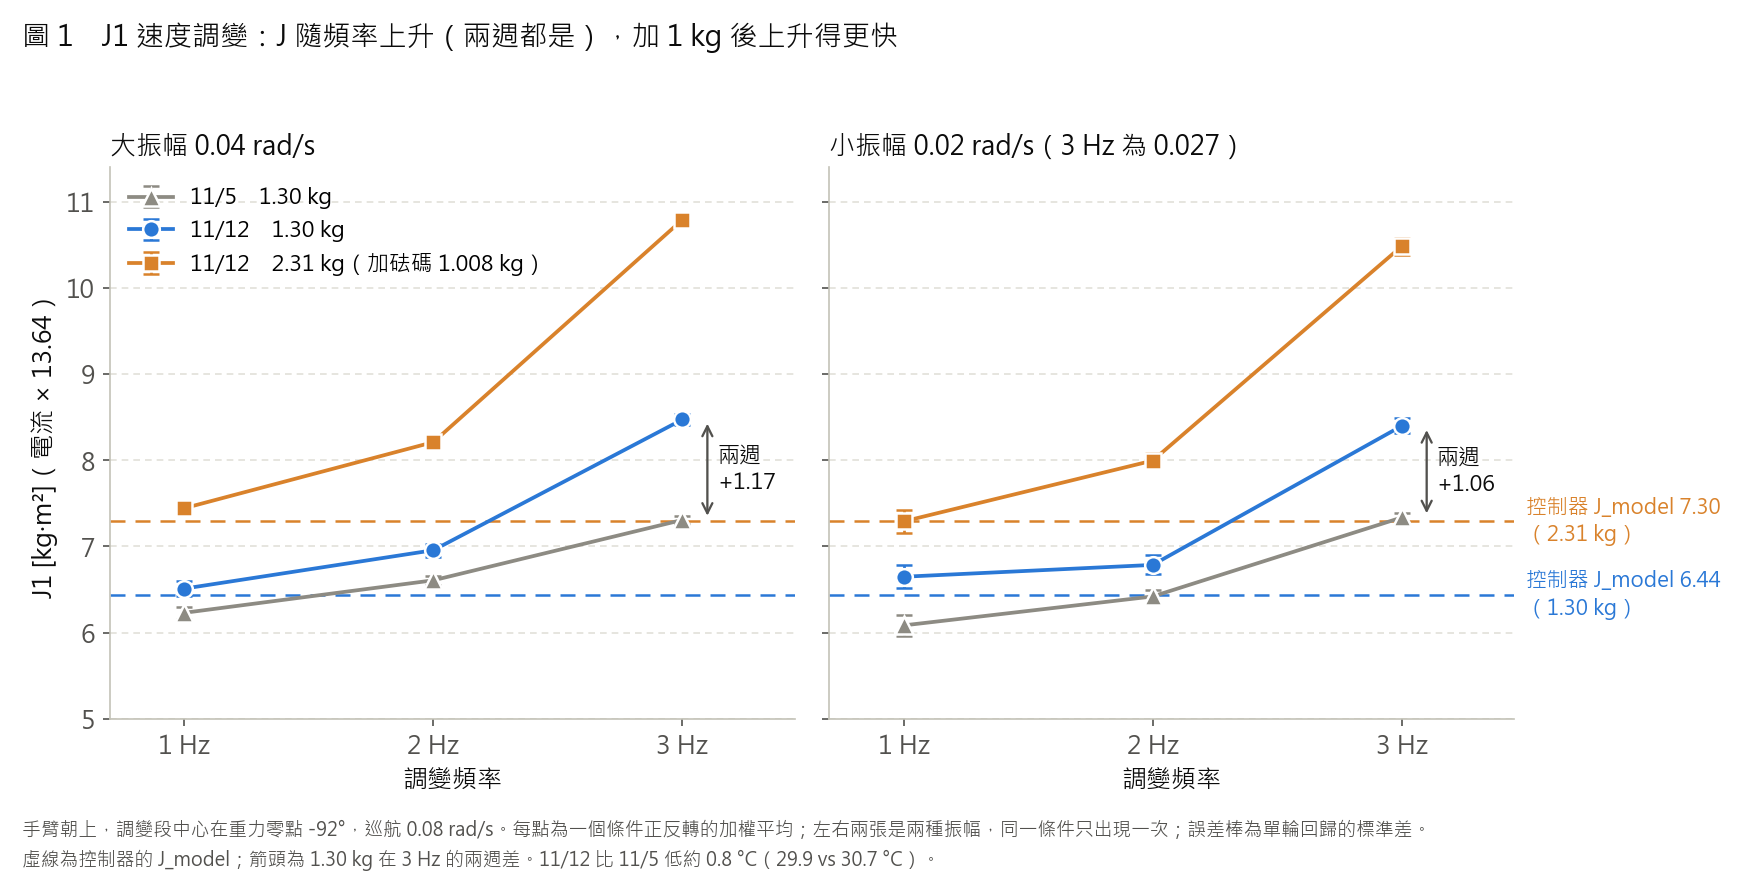
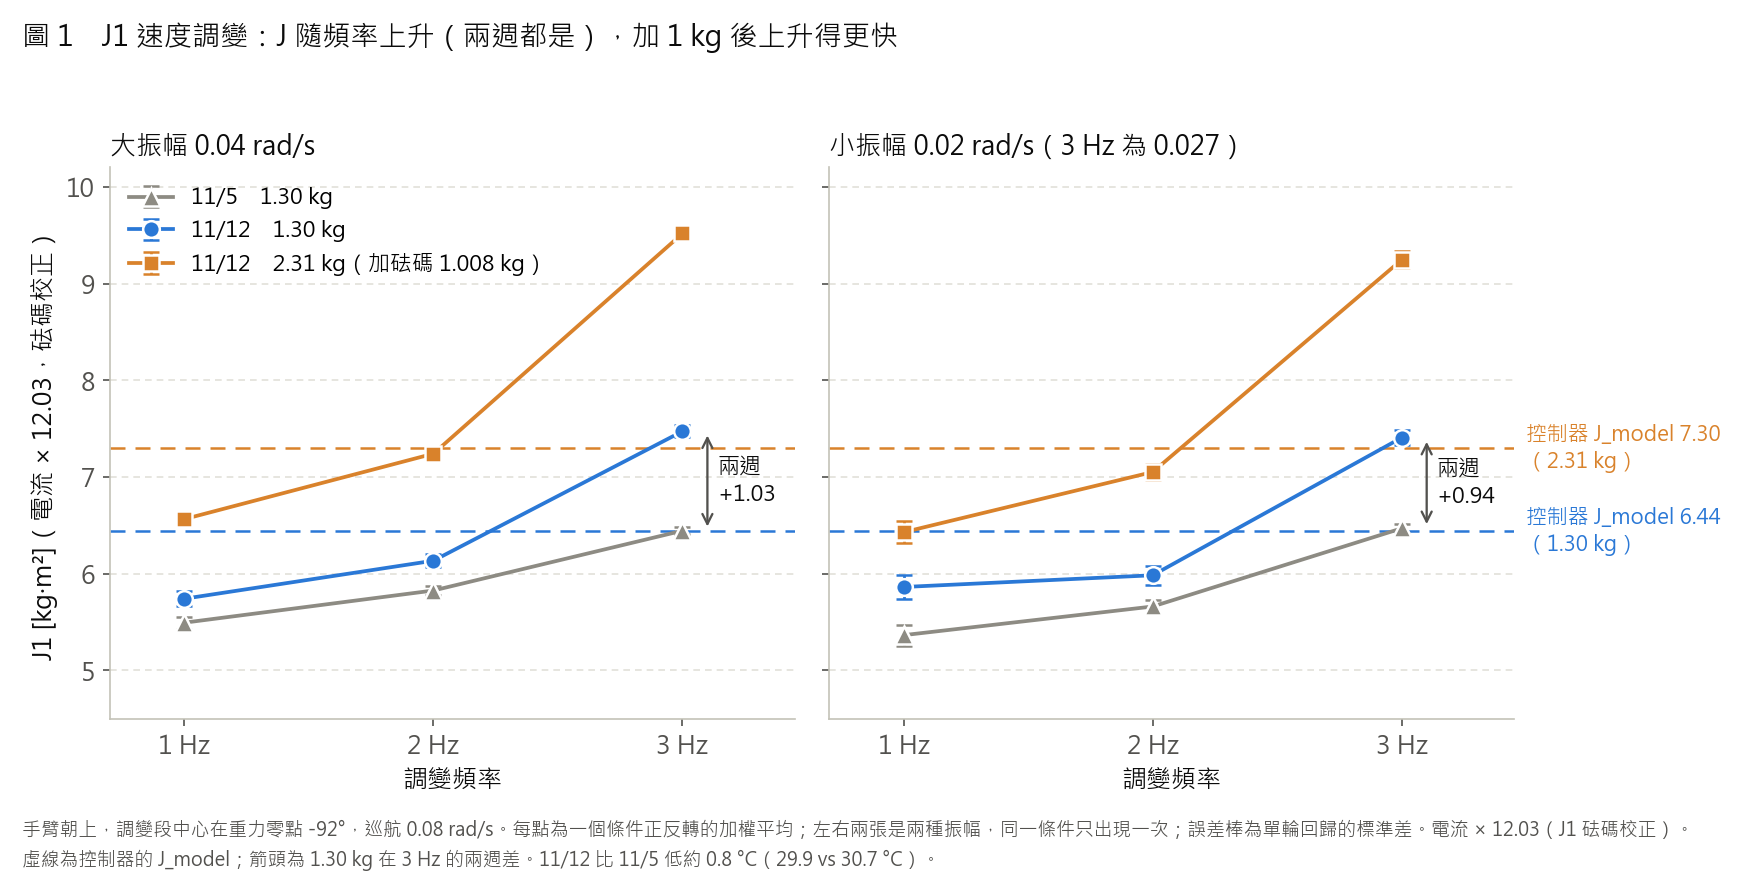
11/18 報告圖改用各軸砝碼校正的換算比例（J1 12.03、J2 12.10）
- 圖 1、2、5 的 J、ΔJ、B、Tc 由 × 13.64 換成各軸校正值（乘 0.882、0.887），控制器 J_model 不變
- 圖 3 加上 CB 系列文件值 12.63（Kovincic 2019）；數值標進長條內避開虛線
- 圖 5 的「官方連桿 + 末端工具 1.01」標籤改用箭頭，不再壓到長條
- REPORT_1118.md 註明 Notion 版已改用校正值

diff --git a/analysis/1112/report_figs_1118.py b/analysis/1112/report_figs_1118.py
@@ -24,13 +24,22 @@ FIGS = os.path.join(OUT, "figs"); os.makedirs(FIGS, exist_ok=True)
 DOCS = os.path.join(HERE, "..", "..", "docs", "report_1118"); os.makedirs(DOCS, exist_ok=True)
 INK, INK2, MUTED, GRAY = "#0b0b0b", "#52514e", "#8d8b83", "#b9b8b0"
 ORANGE, BLUE, GREEN = "#d9822b", "#2a78d6", "#3a9a5b"
-KT = 13.64                                             # 文獻值換算比例 101 × 0.135（J0 已用砝碼校正為 10.8；J1、J2 暫時沿用）
+KT = 13.64                                             # 文獻值 101 × 0.135（Raviola 2021，無出處）；analysis_1112/*.json 都用它換算
+KT_CB = 12.63                                          # 文獻值 101 × 0.125（Kovincic 2019、Porcelli 2020：CB 系列文件值）
 M_CUP, G = 1.008, 9.81
 
 J1 = json.load(open(os.path.join(OUT, "j1_1112.json"), encoding="utf-8"))
 J1B = json.load(open(os.path.join(OUT, "j1_1112_b.json"), encoding="utf-8"))
 J2 = json.load(open(os.path.join(OUT, "j2_1112.json"), encoding="utf-8"))
 J2C = json.load(open(os.path.join(OUT, "j2_cup_1112.json"), encoding="utf-8"))
+
+# 11/18 起改用各軸砝碼校正的換算比例：J、ΔJ、B、Tc 都和換算比例成正比，JSON（× 13.64）的值乘 K / 13.64。
+# 控制器的 J_model、ΔJ_model 是控制器自己的單位（N·m），不換算。
+mgh1 = M_CUP * G * J1B["h"]                            # 砝碼離 J1 軸的高度 h（重心由控制器 ΔJ_model 反推，d ≈ 56 mm）
+dS1 = float(np.mean(J1B["dS"]))
+K1 = KT * mgh1 / abs(dS1)                              # J1 砝碼重力斜率（與 KT 無關：dS1 也是 × KT 算的）
+K2 = float(J2C["Kcal"])                                # J2 砝碼重力斜率
+S1, S2 = K1 / KT, K2 / KT
 
 
 def style(ax):
@@ -50,7 +59,8 @@ def cond_mean(run, ci):
     """同一條件兩個方向的加權平均 J。"""
     v = [J1[f"velmod_{run}_{t}"]["per"][str(ci)] for t in ("pos", "neg")]
     w = np.array([1 / x["se"] ** 2 for x in v])
-    return float(sum(x["J"] * wi for x, wi in zip(v, w)) / w.sum()), float(1 / math.sqrt(w.sum())), v[0]["f"], v[0]["A"]
+    J, se = float(sum(x["J"] * wi for x, wi in zip(v, w)) / w.sum()), float(1 / math.sqrt(w.sum()))
+    return S1 * J, S1 * se, v[0]["f"], v[0]["A"]
 
 
 # ---------------- 圖 1：J1 速度調變，J 對頻率（兩種振幅各畫一張，含誤差棒） ----------------
@@ -80,9 +90,9 @@ for ax, (big, ttl) in zip(axs, AMP1):
             linespacing=1.3, zorder=6)
     ax.set_title(ttl, loc="left", fontsize=12.5, color=INK)
     ax.set_xticks([1, 2, 3]); ax.set_xticklabels(["1 Hz", "2 Hz", "3 Hz"])
-    ax.set_xlim(0.7, 3.45); ax.set_ylim(5.0, 11.4); ax.set_xlabel("調變頻率")
+    ax.set_xlim(0.7, 3.45); ax.set_ylim(4.5, 10.2); ax.set_xlabel("調變頻率")
     style(ax)
-axs[0].set_ylabel("J1 [kg·m²]（電流 × 13.64）")
+axs[0].set_ylabel(f"J1 [kg·m²]（電流 × {K1:.2f}，砝碼校正）")
 axs[0].legend(loc="upper left", frameon=False, fontsize=10.5)
 for jm, col, txt in ((jm130, BLUE, "1.30 kg"), (jm231, ORANGE, "2.31 kg")):
     axs[1].text(3.5, jm, f"控制器 J_model {jm:.2f}\n（{txt}）", ha="left", va="center", fontsize=10, color=col,
@@ -90,7 +100,7 @@ for jm, col, txt in ((jm130, BLUE, "1.30 kg"), (jm231, ORANGE, "2.31 kg")):
 fig.suptitle("圖 1　J1 速度調變：J 隨頻率上升（兩週都是），加 1 kg 後上升得更快", x=0.01, ha="left", fontsize=13.5,
              color=INK)
 fig.text(0.01, 0.005, "手臂朝上，調變段中心在重力零點 -92°，巡航 0.08 rad/s。每點為一個條件正反轉的加權平均；"
-         "左右兩張是兩種振幅，同一條件只出現一次；誤差棒為單輪回歸的標準差。\n"
+         f"左右兩張是兩種振幅，同一條件只出現一次；誤差棒為單輪回歸的標準差。電流 × {K1:.2f}（J1 砝碼校正）。\n"
          "虛線為控制器的 J_model；箭頭為 1.30 kg 在 3 Hz 的兩週差。11/12 比 11/5 低約 0.8 °C（29.9 vs 30.7 °C）。", ha="left", va="bottom", fontsize=9,
          color=INK2, linespacing=1.5)
 fig.tight_layout(rect=(0, 0.06, 0.93, 0.95))
@@ -98,21 +108,22 @@ f1 = save(fig, "w1118_fig1_j1_velmod_freq.png")
 
 # ---------------- 圖 2：砝碼的 ΔJ 對頻率（列：J1、J2；欄：大、小振幅） ----------------
 # J1 單一彈簧模型（j1_1112_fit.py 的「整個慣量在彈簧後」）：J_meas = s·J/(1 − J·ω²/k)，砝碼加在 J 上
-S_FIT, J_FIT, K_FIT, DJ_FIT = 1.095, 5.5467, 6897.9, 0.905
+S_FIT, J_FIT, K_FIT, DJ_FIT = 1.095, 5.5467, 6897.9, 0.905   # j1_1112_fit.py（× 13.64）的擬合值
+S_FIT1 = S_FIT * S1                                    # 換成 J1 砝碼校正值後的 s
 def dj_spring(f):
     w2 = (2 * math.pi * f) ** 2
-    app = lambda J: S_FIT * J / (1 - J * w2 / K_FIT)
+    app = lambda J: S_FIT1 * J / (1 - J * w2 / K_FIT)
     return app(J_FIT + DJ_FIT) - app(J_FIT)
 
 dj1 = J1B["dJ"]; jmd1 = J1B["Jm_d"]
 j1 = {True: [], False: []}
 for lab, (m, s, jm) in dj1.items():
     f = float(lab.split()[0]); A = float(lab.split("×")[1])
-    j1[A >= 0.04].append((f, m, s))
+    j1[A >= 0.04].append((f, S1 * m, S1 * s))
 j2 = {True: [], False: []}
 for r in J2C["rows"]:
     w = [1 / s ** 2 for s in r["sdJ"]]
-    j2[r["A"] >= 0.05].append((r["f"], sum(d * wi for d, wi in zip(r["dJ"], w)) / sum(w), 1 / math.sqrt(sum(w))))
+    j2[r["A"] >= 0.05].append((r["f"], S2 * sum(d * wi for d, wi in zip(r["dJ"], w)) / sum(w), S2 / math.sqrt(sum(w))))
 jmd2 = float(np.mean([r["dJm"] for r in J2C["rows"]]))
 fig, axs = plt.subplots(2, 2, figsize=(12.5, 8.8), sharex=True)
 rows = (("J1（肩）", j1, BLUE, jmd1, (0, 2.8), {True: "大振幅 0.04 rad/s", False: "小振幅 0.02 rad/s（3 Hz 為 0.027）"}),
@@ -151,16 +162,13 @@ for i, (jn, dd, col, jmd, yl, ttl) in enumerate(rows):
 fig.suptitle("圖 2　同一個 1 kg 砝碼：頻率越高，量到的 ΔJ 越大（J1 只有 1 Hz 接近控制器的值）", x=0.01, ha="left",
              fontsize=13.5, color=INK)
 fig.text(0.01, 0.005, "ΔJ = J(2.31 kg) - J(1.30 kg)，手臂朝上，同一天、同一方向相減後兩個方向加權平均。左右兩欄是兩種振幅，"
-         "誤差棒為標準差。電流 × 13.64。\n控制器 ΔJ_model：target_moment 對 target_qdd 回歸，2.31 kg 減 1.30 kg。"
-         "J1 的模型：J_量 = s·J / (1 - J·ω²/k)，12 個條件擬合（s = 1.095、J = 5.55、k = 6898 N·m/rad；χ² = 42，自由度 9）。",
+         f"誤差棒為標準差。電流 × 砝碼校正值（J1 {K1:.2f}、J2 {K2:.2f}）。\n控制器 ΔJ_model：target_moment 對 target_qdd 回歸，2.31 kg 減 1.30 kg。"
+         f"J1 的模型：J_量 = s·J / (1 - J·ω²/k)，12 個條件擬合（s = {S_FIT1:.3f}、J = 5.55、k = 6898 N·m/rad；χ² = 42，自由度 9）。",
          ha="left", va="bottom", fontsize=9, color=INK2, linespacing=1.5)
 fig.tight_layout(rect=(0, 0.05, 1, 0.96))
 f2 = save(fig, "w1118_fig2_cup_dJ.png")
 
 # ---------------- 圖 3：換算比例的各種估計 ----------------
-mgh1 = M_CUP * G * J1B["h"]                            # 砝碼離 J1 軸的高度 h（重心由控制器 ΔJ_model 反推，d ≈ 56 mm）
-dS1 = float(np.mean(J1B["dS"]))
-K1 = KT * mgh1 / abs(dS1)
 c1d = J1["constvel_diag"]; c2 = J2["constvel"]
 est = [  # (標籤, 值, 顏色, 說明)
     ("J1 砝碼重力斜率", K1, BLUE, f"m·g·h {mgh1:.2f} ÷ 量測 Δ斜率 {abs(dS1):.2f}"),
@@ -174,20 +182,27 @@ fig, ax = plt.subplots(figsize=(10, 5.4))
 y = np.arange(len(est))[::-1]
 for yi, (lab, v, col, note) in zip(y, est):
     ax.barh(yi, v, 0.6, color=col, edgecolor="white", zorder=3)
-    ax.text(v + 0.08, yi, f"{v:.2f}", va="center", ha="left", fontsize=11.5, color=INK, fontweight="bold")
+    ax.text(v - 0.12, yi, f"{v:.2f}", va="center", ha="right", fontsize=11.5, color="white", fontweight="bold",
+            zorder=4)                                   # 數值放在長條內，避開兩條文獻值虛線
     ax.text(0.15, yi, note, va="center", ha="left", fontsize=9.5, color="white", zorder=4)
 ax.axvline(KT, color=INK, lw=1.8, ls=(0, (6, 4)), zorder=5)
-ax.text(KT - 0.08, y[0] + 0.5, f"文獻值 {KT}", ha="right", va="bottom", fontsize=11, color=INK)
+ax.text(KT + 0.08, y[0] + 0.5, f"文獻值 {KT}\n（Raviola 2021）", ha="left", va="bottom", fontsize=10, color=INK,
+        linespacing=1.2)
+ax.axvline(KT_CB, color=INK2, lw=1.4, ls=(0, (2, 2)), zorder=5)
+ax.text(KT_CB - 0.08, y[0] + 0.5, f"文獻值 {KT_CB}\n（Kovincic 2019）", ha="right", va="bottom", fontsize=10,
+        color=INK2, linespacing=1.2)
 ax.set_yticks(y); ax.set_yticklabels([e[0] for e in est], fontsize=11)
-ax.set_xlim(0, 15.2); ax.set_ylim(-0.6, len(est) - 0.2)
+ax.set_xlim(0, 16.2); ax.set_ylim(-0.6, len(est) + 0.5)
 ax.set_xlabel("換算比例（力矩 ÷ 電流）[N·m/A]")
 for s in ("top", "right"):
     ax.spines[s].set_visible(False)
 ax.grid(axis="x", alpha=1, ls=(0, (4, 3))); ax.set_axisbelow(True)
-ax.set_title("圖 3　換算比例：用砝碼的重力斜率量到 12.0～12.1，比文獻值 13.64 低約 11%", loc="left",
+ax.set_title("圖 3　換算比例：用砝碼的重力斜率量到 12.0～12.1，比文獻值 13.64 低約 11%、比 12.63 低約 4%", loc="left",
              fontsize=13.5, pad=12, color=INK)
 fig.text(0.01, 0.005, "彩色：只用已知質量（砝碼 1.008 kg）與幾何，不需要控制器的模型；灰色：要假設控制器的重力模型正確。"
-         "\n控制器自己的重力斜率與 m·g·h 相比：J1 1.00、J2 1.03（控制器知道砝碼重量）。", ha="left", va="bottom",
+         "本報告其他圖改用砝碼校正值（J1 %.2f、J2 %.2f）。"
+         "\n控制器自己的重力斜率與 m·g·h 相比：J1 1.00、J2 1.03（控制器知道砝碼重量）。"
+         "兩個文獻值：13.64 = 101 × 0.135 沒寫出處；12.63 = 101 × 0.125 標註來自手臂文件。" % (K1, K2), ha="left", va="bottom",
          fontsize=9, color=INK2, linespacing=1.5)
 fig.tight_layout(rect=(0, 0.06, 1, 1))
 f3 = save(fig, "w1118_fig3_conversion_ratio.png")
@@ -216,12 +231,13 @@ for d, col, sgn, lab, kw in (("pos", BLUE, +1, "正轉", dict(marker="o", s=55, 
                               dict(marker="s", s=150, facecolors="none", edgecolors=ORANGE, linewidths=2, zorder=4))):
     a = np.array(seg[d]); assert len(a) == 12, (d, len(a))
     v = np.round(a[:, 0], 2); vs = np.unique(v)
-    ax.scatter(vs, [a[v == x, 1].mean() - sgn * c2["H"] for x in vs], label=lab, **kw)
-ax.plot(vv, c2["Tc"] + c2["B"] * vv, color=INK2, lw=1.4, zorder=3, label="摩擦 Tc + B·v")
-ax.text(0.205, 7.6, f"B = {c2['B']:.1f} ± {c2['sd_B']:.1f} N·m·s/rad\nTc = {c2['Tc']:.2f} ± {c2['sd_Tc']:.2f} N·m\n"
-        f"已扣窗口內重力平均 {c2['H']:+.2f} N·m", ha="right", va="bottom", fontsize=11, color=INK, linespacing=1.5)
+    ax.scatter(vs, [S2 * (a[v == x, 1].mean() - sgn * c2["H"]) for x in vs], label=lab, **kw)
+B2, sB2, Tc2, sTc2, H2 = (S2 * c2[k] for k in ("B", "sd_B", "Tc", "sd_Tc", "H"))
+ax.plot(vv, Tc2 + B2 * vv, color=INK2, lw=1.4, zorder=3, label="摩擦 Tc + B·v")
+ax.text(0.205, 6.6, f"B = {B2:.1f} ± {sB2:.1f} N·m·s/rad\nTc = {Tc2:.2f} ± {sTc2:.2f} N·m\n"
+        f"已扣窗口內重力平均 {H2:+.2f} N·m", ha="right", va="bottom", fontsize=11, color=INK, linespacing=1.5)
 ax.legend(loc="upper left", frameon=False, fontsize=10.5)
-ax.set_xlim(0, 0.215); ax.set_ylim(7, 16)
+ax.set_xlim(0, 0.215); ax.set_ylim(6, 14.5)
 ax.set_xlabel("J2 速度 [rad/s]"); ax.set_ylabel("扣掉重力後的力矩大小 [N·m]")
 ax.set_title("定速（-16.4°～+5.0°，6 檔速度），扣掉重力", loc="left", fontsize=12, color=INK)
 style(ax)
@@ -230,7 +246,8 @@ vm = J2["velmod"]
 order = sorted(range(6), key=lambda i: (vm["pos"][str(i)]["f"], vm["pos"][str(i)]["A"]))
 x, w = np.arange(6), 0.36
 for d, col, lab, sh in (("pos", BLUE, "正轉", -1), ("neg", ORANGE, "反轉", +1)):
-    J = np.array([vm[d][str(i)]["J"] for i in order]); s = np.array([vm[d][str(i)]["se"] for i in order])
+    J = S2 * np.array([vm[d][str(i)]["J"] for i in order]); s = S2 * np.array([vm[d][str(i)]["se"] for i in order])
+    Jall = J if d == "pos" else np.concatenate([Jall, J])
     xx = x + sh * (w / 2 + 0.01)
     ax.bar(xx, J, w, color=col, edgecolor="white", linewidth=2, zorder=3, label=lab)
     ax.errorbar(xx, J, yerr=s, fmt="none", ecolor=INK, elinewidth=1.2, capsize=3, zorder=4)
@@ -241,19 +258,21 @@ jm2 = float(np.mean([J2C["R"]["p130_pos"][str(i)]["Jm"] for i in range(6)]))
 ax.axhline(jm2, color=INK, lw=1.8, ls=(0, (6, 4)), zorder=5)
 ax.text(5.55, jm2 + 0.05, f"控制器 J_model = {jm2:.2f}", ha="right", va="bottom", fontsize=11, color=INK)
 ax.axhline(1.01, color=MUTED, lw=1.3, ls=(0, (2, 2)), zorder=5)
-ax.text(5.55, 1.01 + 0.04, "官方連桿 + 末端工具 1.01（不含轉子）", ha="right", va="bottom", fontsize=9.5,
-        color=INK2, bbox=dict(boxstyle="square,pad=0.15", fc="white", ec="none"), zorder=7)
+ax.annotate("官方連桿 + 末端工具 1.01\n（不含轉子）", xy=(5.72, 1.02), xytext=(5.85, 2.05), ha="right", va="bottom",
+            fontsize=9.5, color=INK2, linespacing=1.3, zorder=7,
+            arrowprops=dict(arrowstyle="-|>", color=INK2, lw=1.0, shrinkA=2, shrinkB=1,
+                            relpos=(0.97, 0)))         # 箭頭從文字右下角往下，走最右邊的空白，不壓長條
 ax.legend(loc="upper left", frameon=False, fontsize=10.5, ncol=2)
 ax.set_xticks(x)
 ax.set_xticklabels([f"{vm['pos'][str(i)]['f']:g} Hz\n× {vm['pos'][str(i)]['A']:g}" for i in order], fontsize=10)
-ax.set_xlim(-0.6, 5.6); ax.set_ylim(0, 3.6)
-ax.set_ylabel("J2 [kg·m²]（電流 × 13.64）")
+ax.set_xlim(-0.6, 5.95); ax.set_ylim(0, 3.6)
+ax.set_ylabel(f"J2 [kg·m²]（電流 × {K2:.2f}，砝碼校正）")
 ax.set_title("速度調變（調變段中心 -5.4°）", loc="left", fontsize=12, color=INK)
 style(ax)
-fig.suptitle("圖 5　J2 第一次上機：扣掉重力後定速正反轉重合；速度調變的 J 也隨頻率上升，約為控制器的 0.46～0.65 倍",
-             x=0.01, ha="left", fontsize=13.5, color=INK)
-fig.text(0.01, 0.005, "11/12 手臂朝上（J2 = 0°，前臂朝上），末端工具 1.30 kg。電流 × 13.64；分析含重力項。"
-         "定速每點為同一檔速度升、降兩段的平均，已扣窗口內平均重力（正轉加 0.55、反轉減 0.55）；"
+fig.suptitle(f"圖 5　J2 第一次上機：扣掉重力後定速正反轉重合；速度調變的 J 也隨頻率上升，約為控制器的 "
+             f"{Jall.min() / jm2:.2f}～{Jall.max() / jm2:.2f} 倍", x=0.01, ha="left", fontsize=13.5, color=INK)
+fig.text(0.01, 0.005, f"11/12 手臂朝上（J2 = 0°，前臂朝上），末端工具 1.30 kg。電流 × {K2:.2f}（J2 砝碼校正）；分析含重力項。"
+         f"定速每點為同一檔速度升、降兩段的平均，已扣窗口內平均重力（正轉加 {abs(H2):.2f}、反轉減 {abs(H2):.2f}）；"
          "右圖誤差棒為單輪回歸的標準差。", ha="left", va="bottom", fontsize=9, color=INK2)
 fig.tight_layout(rect=(0, 0.04, 1, 0.94))
 f5 = save(fig, "w1118_fig5_j2.png")
@@ -261,12 +280,13 @@ f5 = save(fig, "w1118_fig5_j2.png")
 # ---------------- 數字（講稿用） ----------------
 print("J1 各頻率平均 J：", {k: [round(v, 3) for v in fm] for k, fm in fmean.items()})
 print(f"J1 J_model 1.30 {jm130:.3f}、2.31 {jm231:.3f}")
-print("J1 ΔJ：", {k: [round(v[0], 3), round(v[1], 3)] for k, v in dj1.items()}, " ΔJ_model", round(jmd1, 4))
+print("J1 ΔJ：", {k: [round(S1 * v[0], 3), round(S1 * v[1], 3)] for k, v in dj1.items()}, " ΔJ_model", round(jmd1, 4))
 print("J1 彈簧模型 ΔJ：", [round(dj_spring(f), 3) for f in (1, 2, 3)])
 print(f"J1 換算比例：m g h {mgh1:.3f}，Δ斜率 {dS1:.3f} → {K1:.2f}；J2 {J2C['Kcal']:.2f} ± {J2C['sdK']:.2f}；"
-      f"彈簧擬合 {KT / S_FIT:.2f}")
-print(f"J2 定速 B {c2['B']:.3f} ± {c2['sd_B']:.3f}、Tc {c2['Tc']:.3f} ± {c2['sd_Tc']:.3f}、H {c2['H']:+.3f}；"
-      f"J2 J_model {jm2:.3f}")
-print(f"J1 定速 DIAG B {c1d['B']:.3f} ± {c1d['sd_B']:.3f}、Tc {c1d['Tc']:.3f} ± {c1d['sd_Tc']:.3f}、H {c1d['H']:+.3f}")
+      f"彈簧擬合 {KT / S_FIT:.2f}；換算 S1 {S1:.4f}、S2 {S2:.4f}")
+print(f"J2 定速（× {K2:.2f}）B {B2:.3f} ± {sB2:.3f}、Tc {Tc2:.3f} ± {sTc2:.3f}、H {H2:+.3f}；J2 J_model {jm2:.3f}；"
+      f"速度調變 J {Jall.min():.3f}～{Jall.max():.3f}")
+print(f"J1 定速 DIAG（× {K1:.2f}）B {S1 * c1d['B']:.3f} ± {S1 * c1d['sd_B']:.3f}、Tc {S1 * c1d['Tc']:.3f} ± "
+      f"{S1 * c1d['sd_Tc']:.3f}、H {S1 * c1d['H']:+.3f}")
 for p in (f1, f2, f3, f5):
     print(p)

diff --git a/docs/REPORT_1118.md b/docs/REPORT_1118.md
@@ -1,6 +1,8 @@
 # 11/18 週報：11/12 上機結果（J1 重複、砝碼、J2 第一次、敲擊測試）
 
 > 正式報告在 Notion「研究筆記資料庫」：11/18 報告：砝碼校正 J1、J2 換算比例，J2 第一次鑑別。這份是 repo 內的備份。
+>
+> 11/18 更新：Notion 正式版與 docs/report_1118/ 的圖已改用各軸砝碼校正的換算比例（J1 12.03、J2 12.10；用 13.64 算的 J、B、Tc 分別乘 0.882、0.887）。下面的數字仍是舊版的 × 13.64，以 Notion 為準。
 
 ## 本週重點
 
